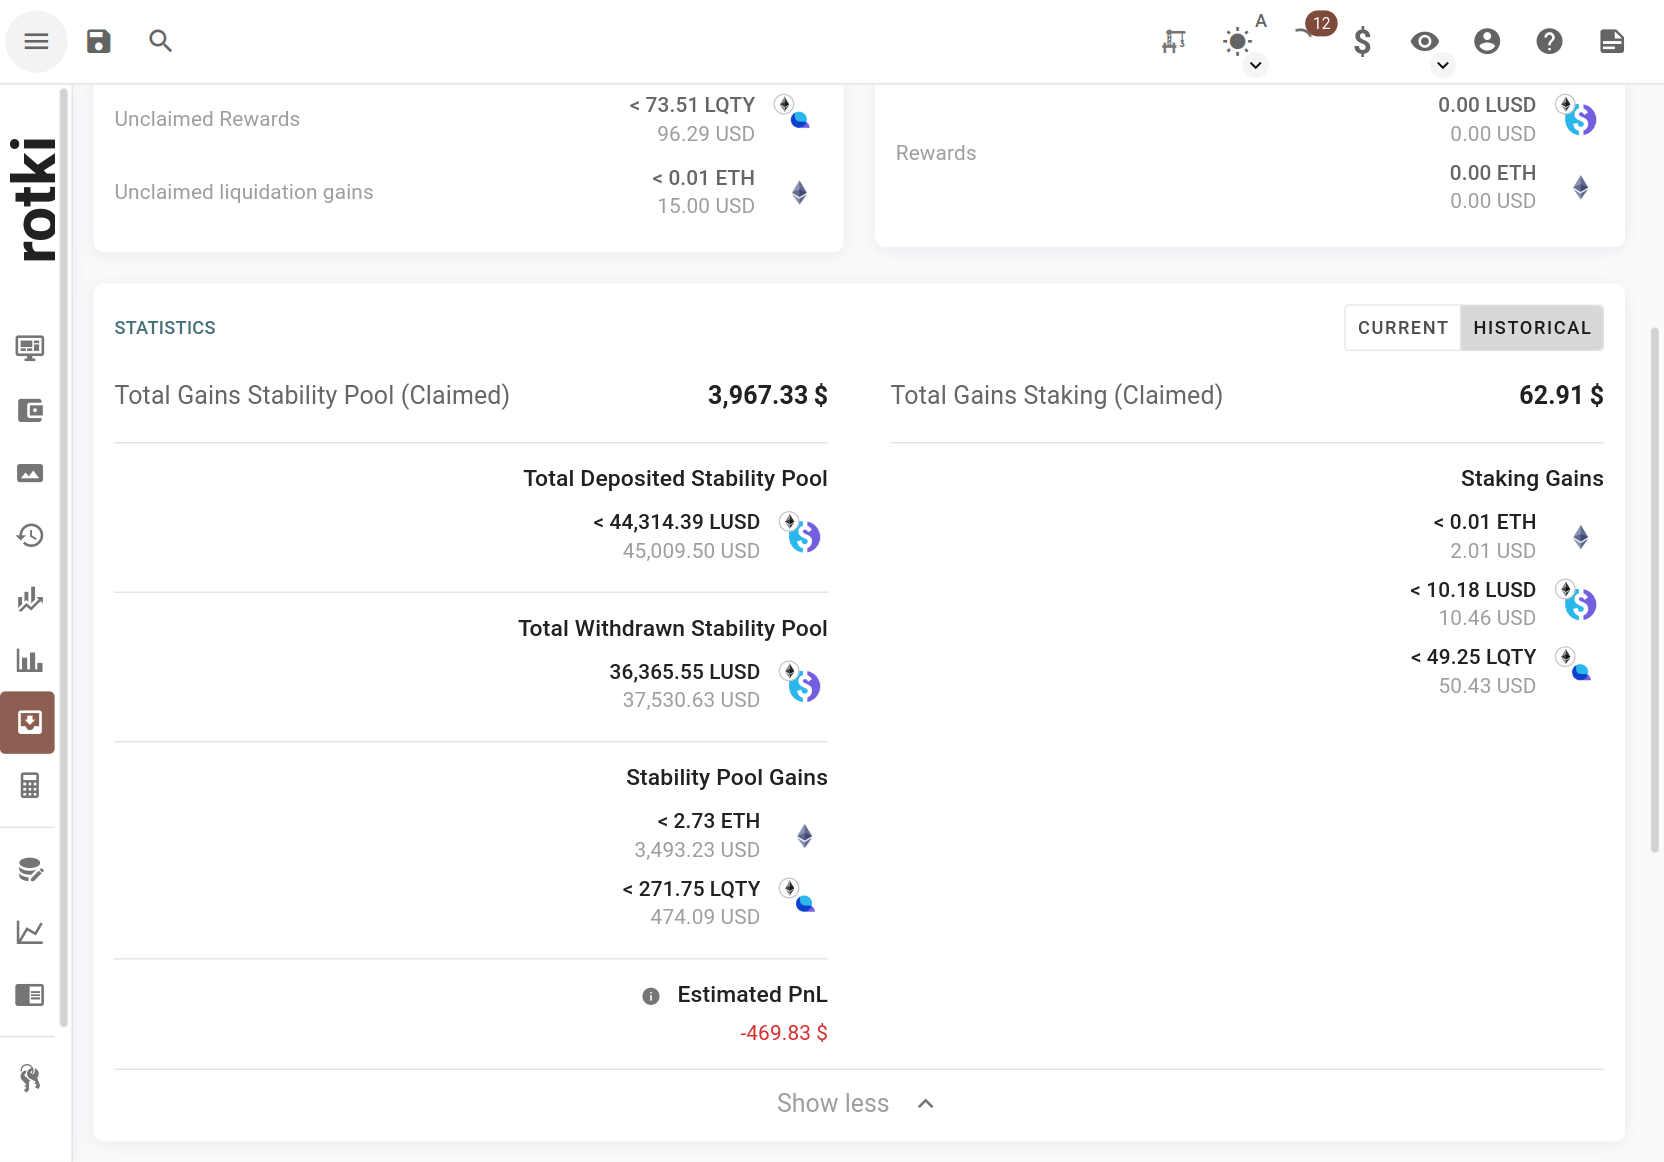
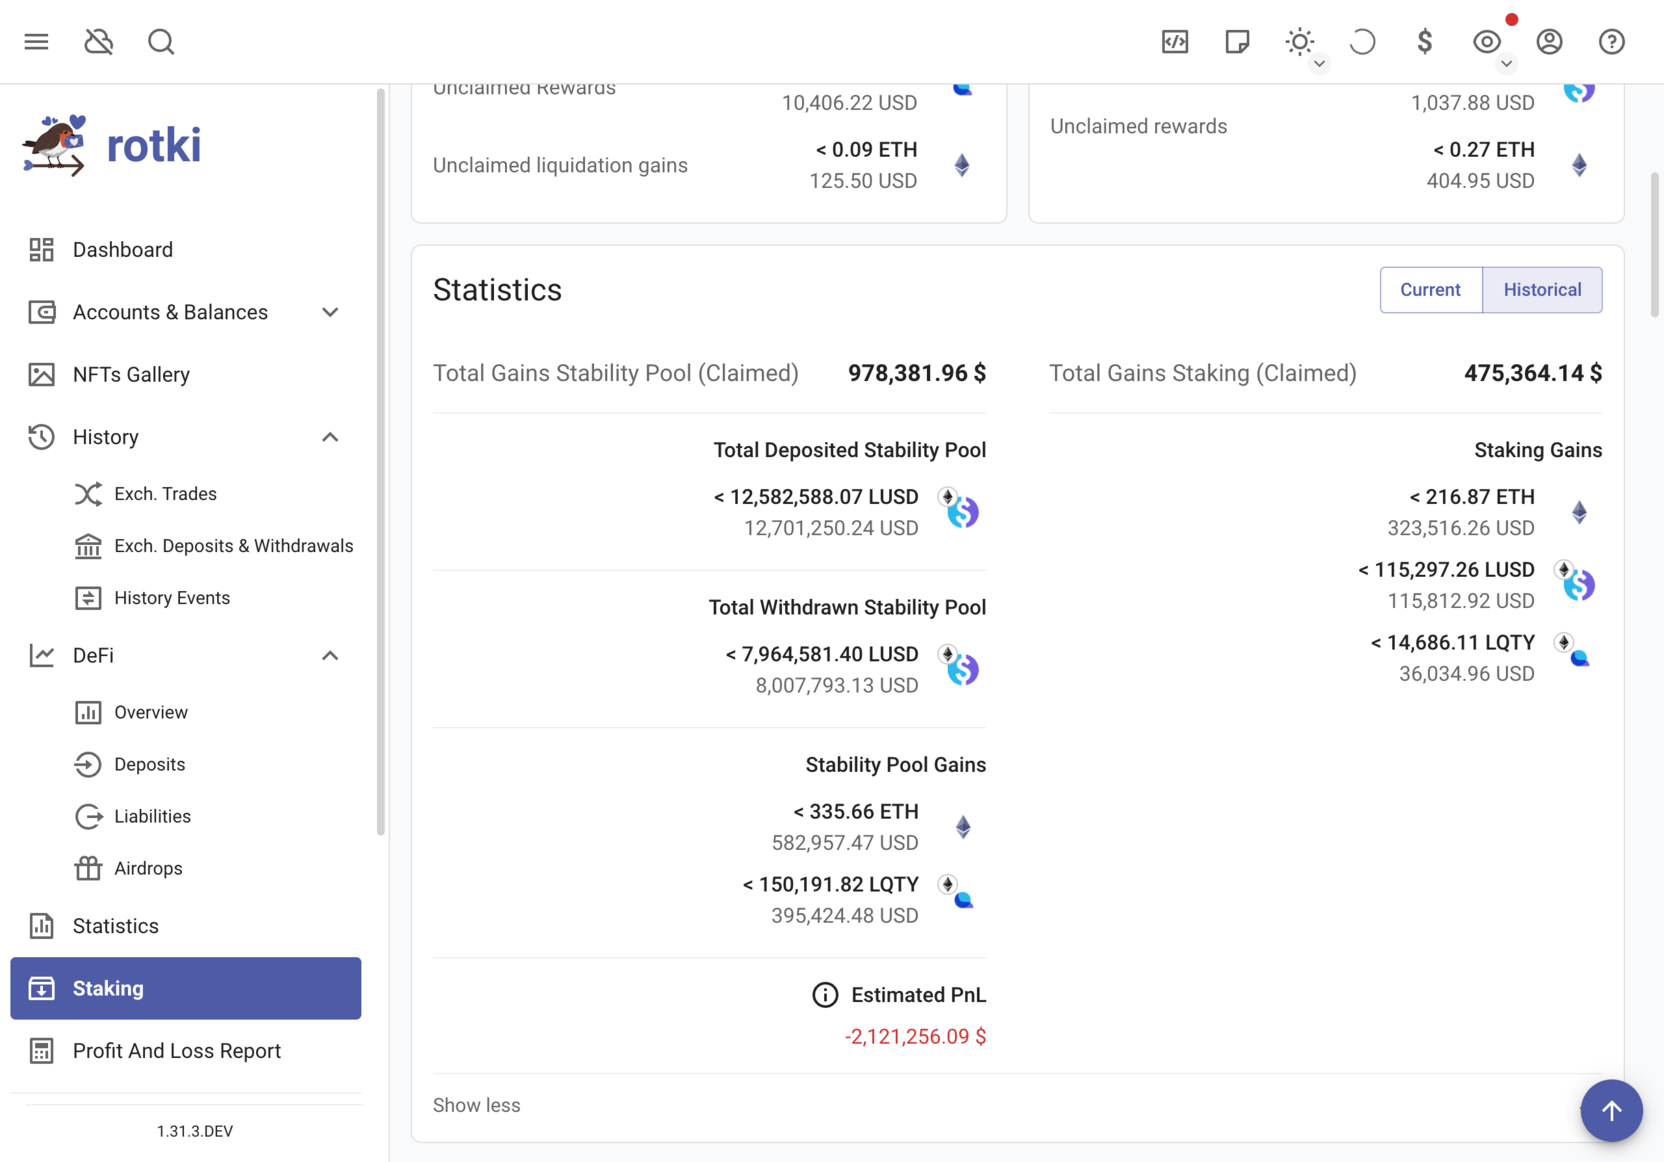
docs: update screenshot for staking section

diff --git a/frontend/app/src/components/display/StatCard.vue b/frontend/app/src/components/display/StatCard.vue
@@ -36,7 +36,7 @@ withDefaults(
           :src="protocolIcon"
         />
       </div>
-      <div class="grow px-4 pb-4">
+      <div class="flex-1 px-4 pb-4">
         <div class="flex items-center py-4">
           <CardTitle v-if="title">
             {{ title }}

diff --git a/frontend/app/src/components/defi/display/InfoRow.vue b/frontend/app/src/components/defi/display/InfoRow.vue
@@ -23,6 +23,7 @@ withDefaults(
     </div>
     <slot>
       <AmountDisplay
+        class="font-bold"
         :fiat-currency="fiat ? 'USD' : undefined"
         :value="value"
         :loading="loading"
